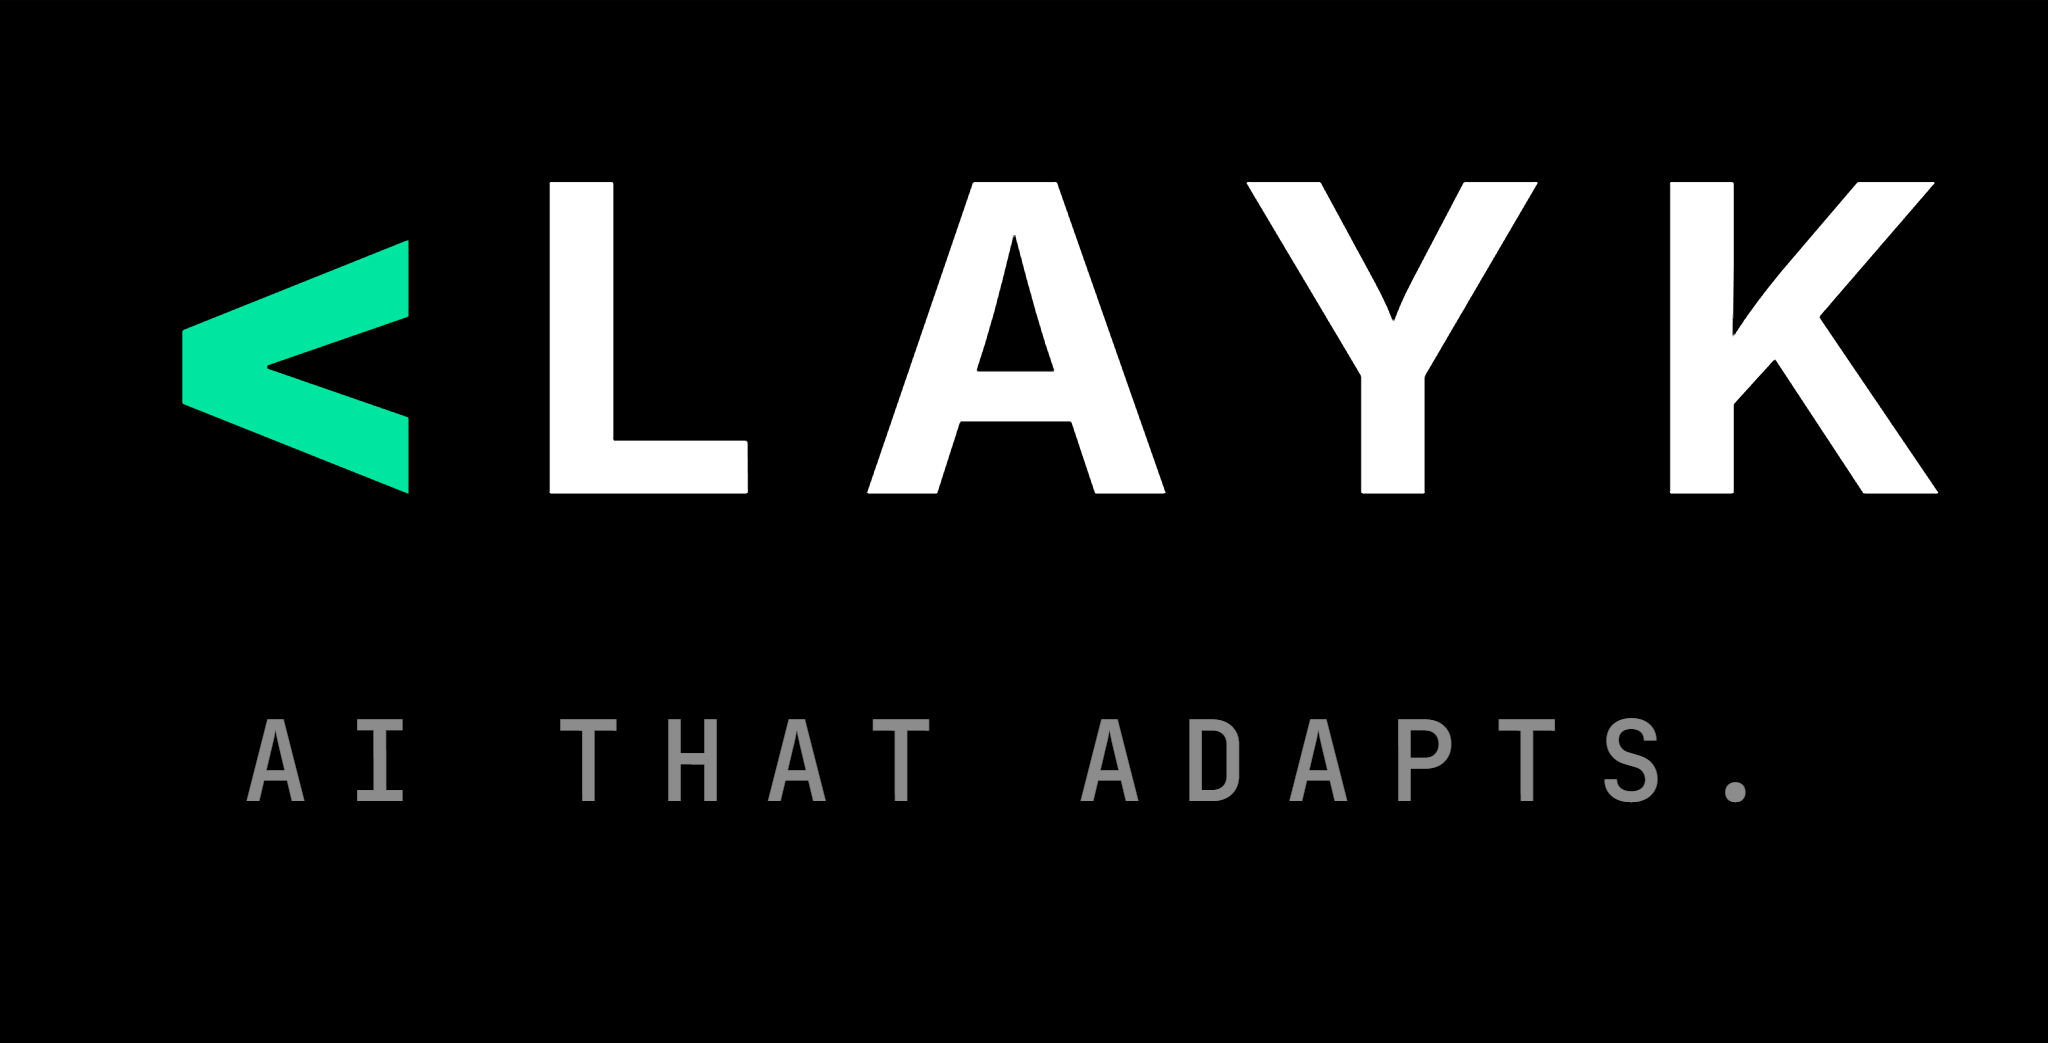
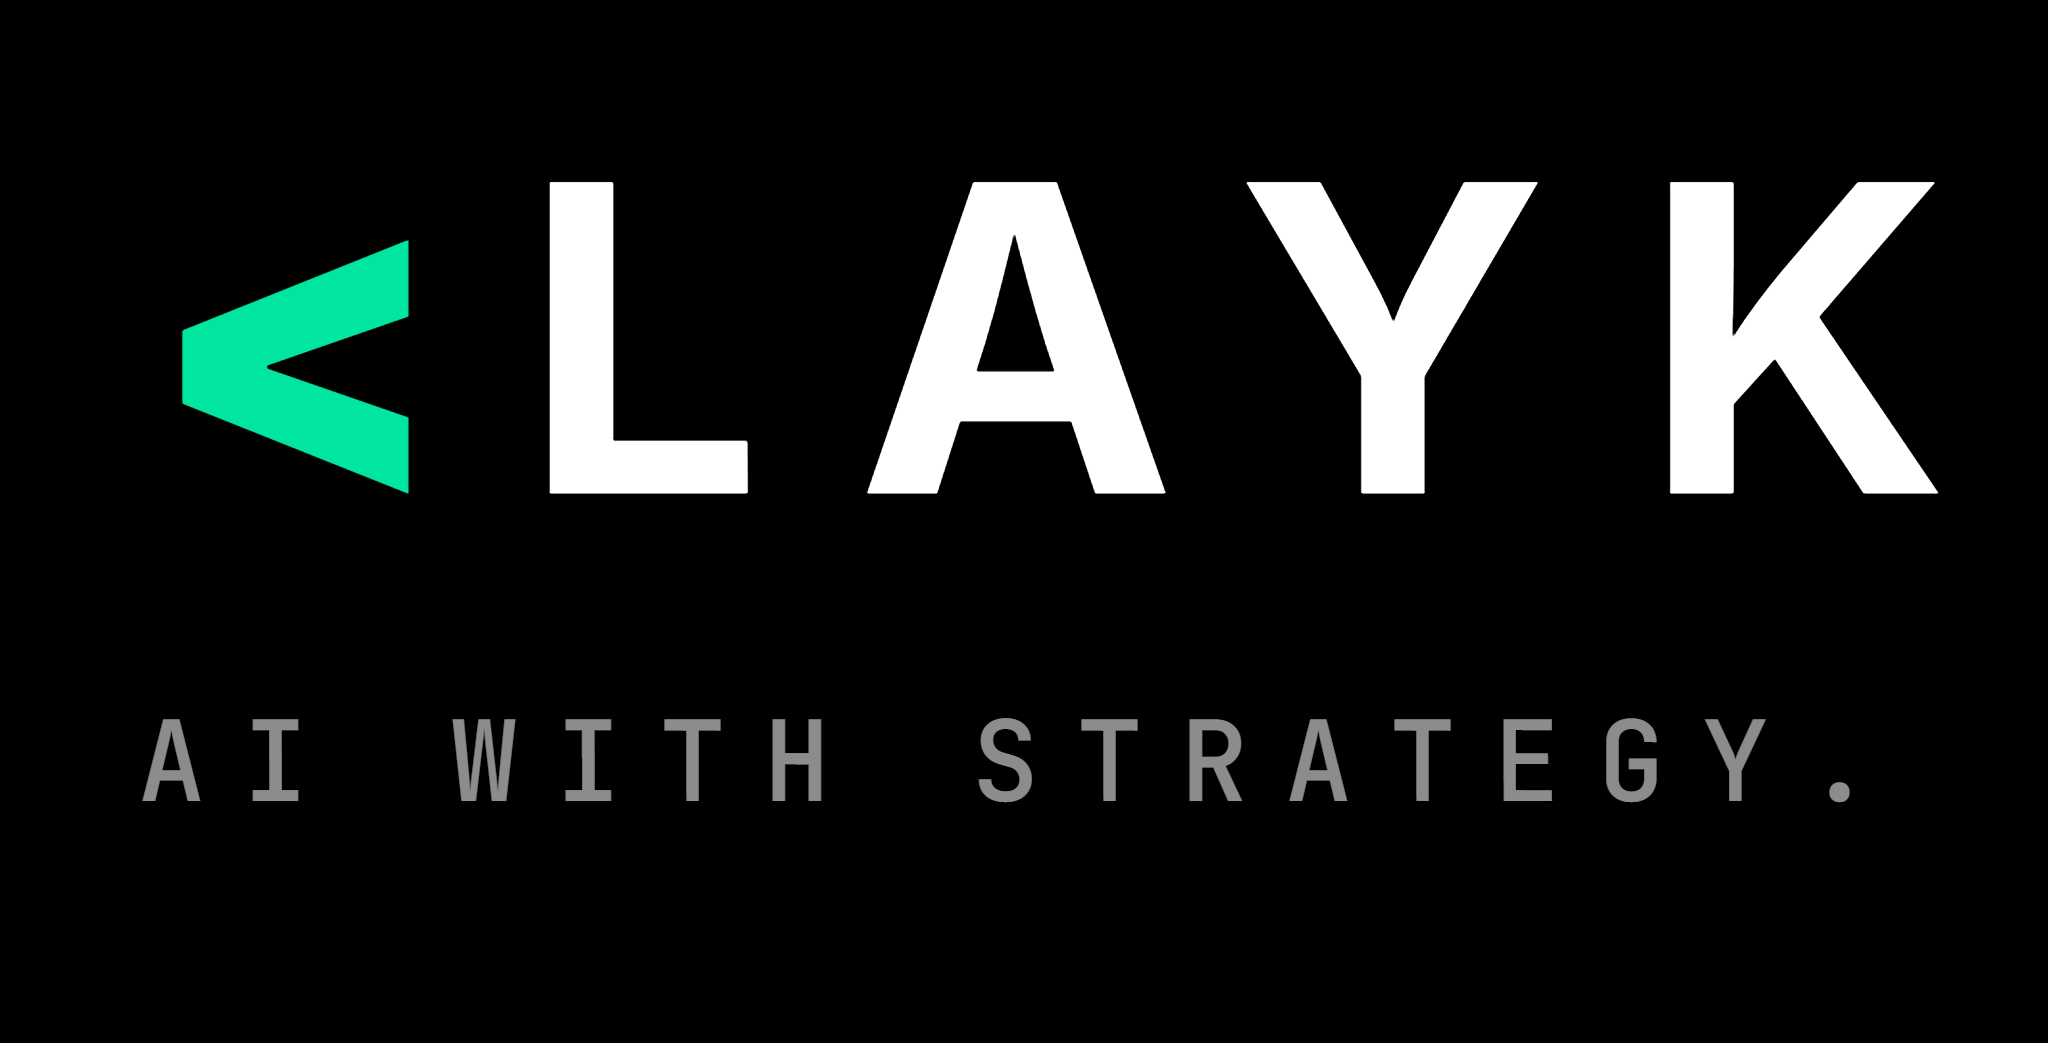
profile: tagline AI THAT ADAPTS. -> AI WITH STRATEGY.
Atualiza os dois textos do README (alt do lockup + rodapé) e regenera
o PNG do lockup a partir do SVG do layk-brand (já corrigido).

diff --git a/profile/README.md b/profile/README.md
@@ -1,5 +1,5 @@
 <p align="center">
-  <img src="./assets/layk-lockup.png" width="300" alt="LAYK — AI THAT ADAPTS." />
+  <img src="./assets/layk-lockup.png" width="300" alt="LAYK — AI WITH STRATEGY." />
 </p>
 
 <p align="center">
@@ -61,5 +61,5 @@ desenvolvimento — MVPs em semanas, não meses.
 ---
 
 <p align="center">
-  <code>AI THAT ADAPTS.</code>
+  <code>AI WITH STRATEGY.</code>
 </p>
